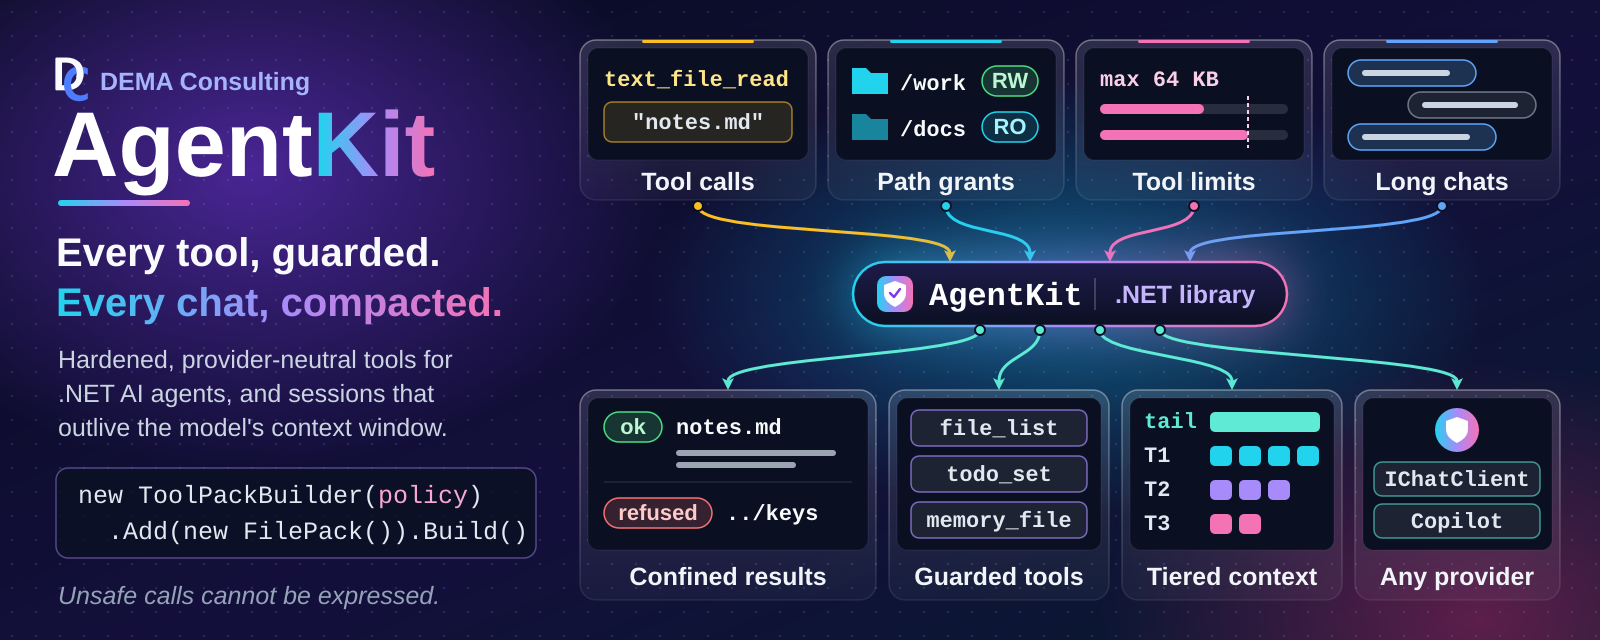
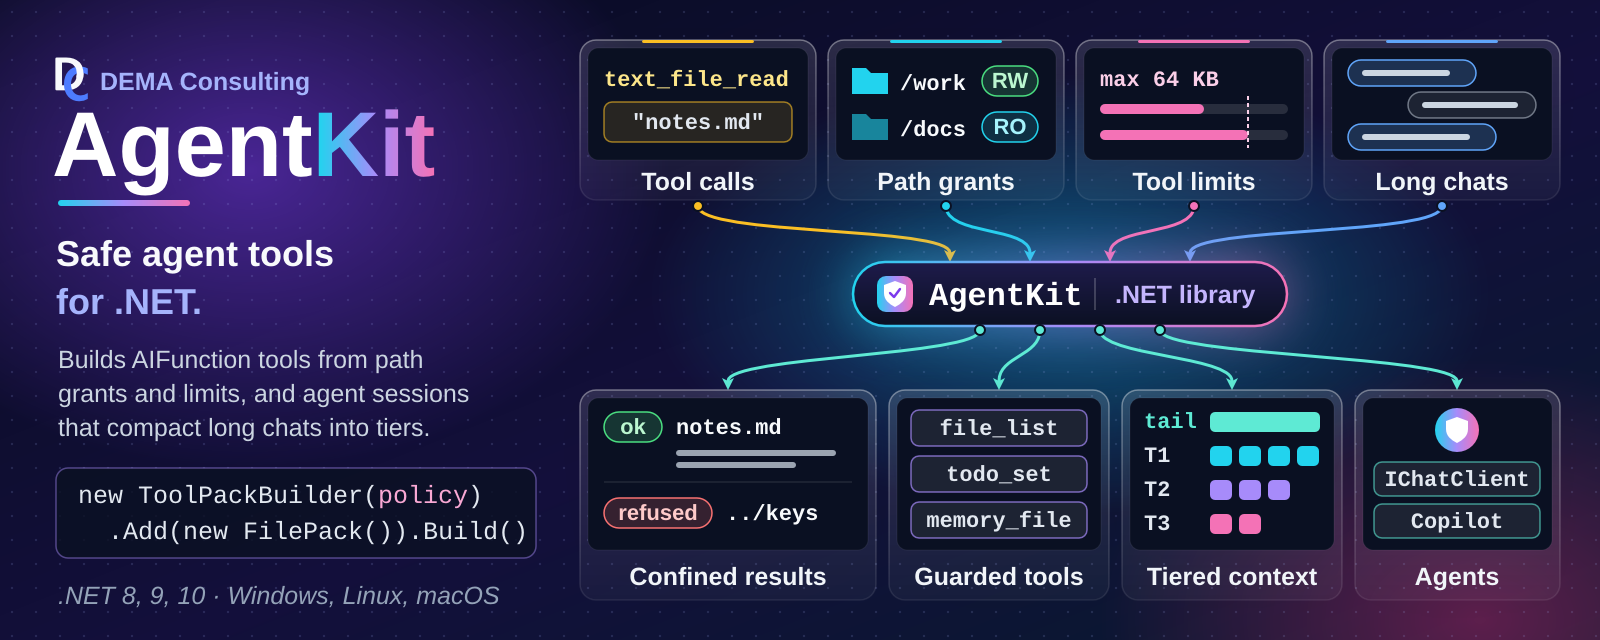
README: calmer hero as the H1; tone down pitch and features
Template ad9b5e0/547f376/6c35df2: the hero banner is now the README H1
with alt text "AgentKit: Safe agent tools for .NET". The hero card uses
the plain project tagline (36px, solid second line), a factual body,
and a platforms footnote instead of the "Every tool, guarded. Every
chat, compacted." / "Unsafe calls cannot be expressed." slogans; the
fourth output card is labelled "Agents". The README overview and
feature bullets drop the safe-by-construction and any-provider claims
in favour of what the tools and sessions do, and the architecture
figure's closing note says "guarded tools and a session that compacts
its own context". hero.png and architecture.png re-rendered.

diff --git a/README.md b/README.md
@@ -1,4 +1,4 @@
-# AgentKit
+# ![AgentKit: Safe agent tools for .NET][hero]
 
 <!-- IMPORTANT: All links in this file must be absolute URLs.
      This file is distributed in packages and relative links will not resolve. -->
@@ -11,27 +11,28 @@
 [![Quality Gate][badge-quality]][link-quality]
 [![Security][badge-security]][link-security]
 [![NuGet][badge-nuget]][link-nuget]
-![AgentKit banner: the AgentKit name with the tagline 'Every tool, guarded. Every chat, compacted.' and the C# call 'new ToolPackBuilder(policy).Add(new FilePack()).Build()'. A model's tool calls such as text_file_read on notes.md, the application's read-write and read-only path grants, tool limits such as a 64 KB read ceiling, and long chats flow on curved arrows into the AgentKit .NET library, and arrows lead out to what it produces: confined results where a permitted read returns and a path outside every grant is refused, a guarded tool list, a session compacted into a verbatim tail and three tiers of consolidated records, and agents on any provider such as an IChatClient or GitHub Copilot. A footnote reads 'Unsafe calls cannot be expressed.'][hero]
 
 ## Overview
 
-AgentKit is a family of .NET libraries that give an AI agent hardened, provider-neutral tools that are
-safe by construction: an unsafe operation is not refused at call time, it cannot be expressed. The
-application decides which tools an agent receives and the controls they carry, and AgentKit makes each
-tool behave predictably within them. It also gives the agent a session of its own that compacts its
-context, so a long-running agent behaves the same way on every provider.
+AgentKit is a family of .NET libraries that gives an AI agent provider-neutral tools confined to what the
+application grants. The application decides which tools an agent receives and the path grants and limits they
+carry; each tool checks every call against them and refuses one that falls outside, with a reason the model can act
+on. AgentKit also provides an agent session that compacts its own context, so a long-running agent keeps working
+within the model's context window on each supported provider.
 
 ## Features
 
-- 🛡 **Safe by Construction**: Operations the policy forbids cannot be expressed, not merely refused at call time
-- 🎛 **Application-Set Controls**: Path grants, tool limits, and host capabilities bound every tool
+- 🛡 **Policy-Checked Paths**: Every path a tool is given is checked against the application's grants before it is used
+- 🎛 **Application-Set Controls**: Path grants, tool limits, and host capabilities are set by the application
 - 🧰 **Ready-Made Tool Families**: Text file, file, Markdown, image, todo, memory, and agent delegation
 - 🧩 **Custom Tools**: Build your own tools through the same guarded factory and publish them as packs
-- 🔌 **Provider-Neutral**: Plain `AIFunction` tools that keep their limits in any agent, Copilot, or `IChatClient`
-- 🧠 **Self-Compacting Sessions**: Tiered context compaction keeps a long conversation alive on any provider
-- 🗄 **Large Output Retention**: Opt-in, any provider; held in memory for `tool_output_read` and `tool_output_search`
-- 📏 **Honest Context Windows**: Sessions account against the window a provider really runs, Ollama included
-- 🖼 **Images That Arrive**: Tool-returned images reach the model even on providers that would drop them
+- 🔌 **Provider-Neutral**: Plain `AIFunction` tools that keep their limits on any `IChatClient` or on GitHub Copilot
+- 🧠 **Self-Compacting Sessions**: Tiered context compaction keeps a long conversation within the context window
+- 🗄 **Large Output Retention**: Opt-in; oversized tool output is held in memory for `tool_output_read` and
+  `tool_output_search`
+- 📏 **Provider Context Windows**: Sessions account against the window the provider runs, read from Ollama where needed
+- 🖼 **Tool Image Delivery**: Tool-returned images are forwarded to the model on providers that would otherwise drop
+  them
 - 🧪 **Testable Offline**: An in-memory provider session exercises the whole session lifecycle without a model
 - 📚 **Agent-Readable API Reference**: Every package ships a gradually-disclosed Markdown API reference
 - 🖥 **Multi-Platform Support**: Builds and runs on Windows, Linux, and macOS, targeting .NET 8, 9, and 10
